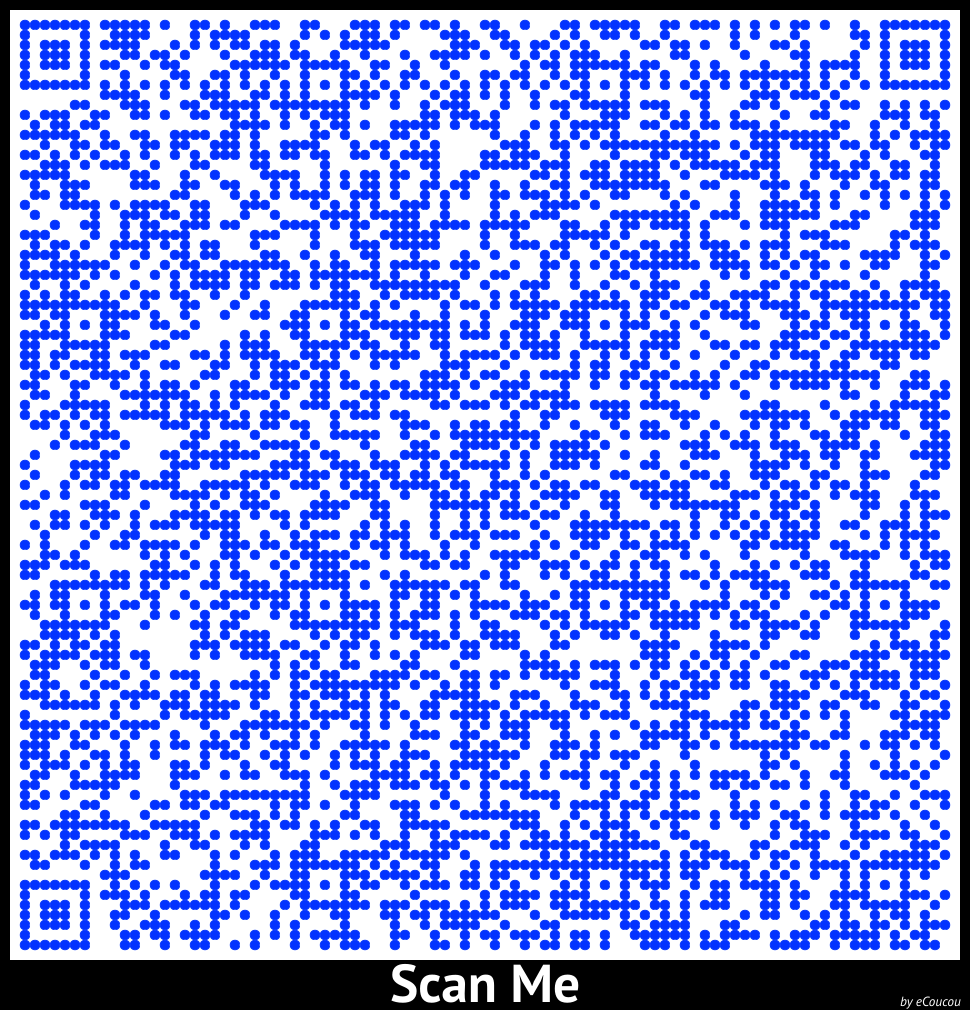
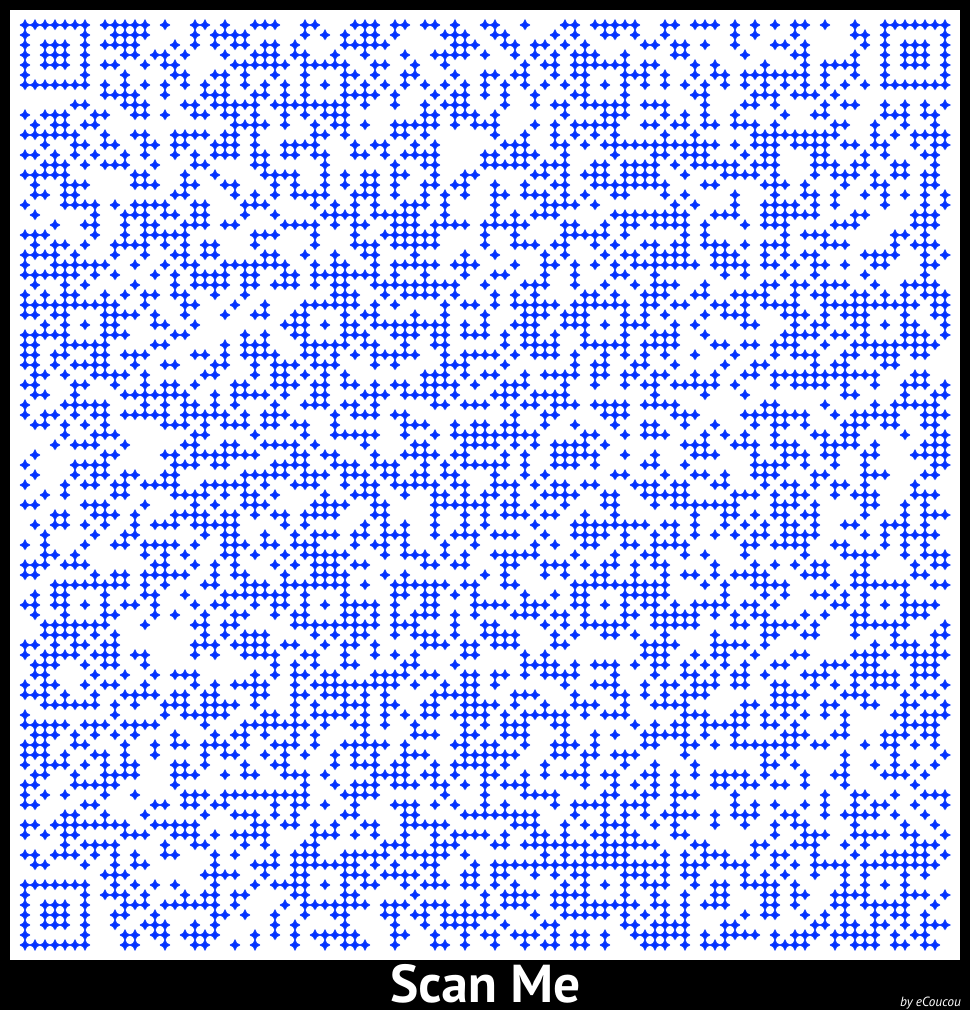
updat

Changed region(s): [[0.0, 0.0, 0.9897, 0.9515]]

diff --git a/public/vcard.html b/public/vcard.html
@@ -248,7 +248,12 @@
         });
         generateUrl();
     }
-
+    function copyToClipboard() {
+      const input = document.getElementById("qrcodeText");
+      input.select();
+      input.setSelectionRange(0, 99999); // pour mobile
+      document.execCommand("copy");
+    }
     async function getVersion() {
         const res = await fetch('/api/qrcode/version');
         const vData = await res.json();
@@ -277,15 +282,15 @@
         <div class="grid grid-cols-12 gap-4 mb-4">
           <div class="col-span-12 md:col-span-2">
             <label class="block">Genre</label>
-            <input type="text" id="genre" placeholder="M., Mme, Dr" onchange="generateUrl()" class="w-full px-4 py-2 rounded bg-backgroundLight dark:bg-primaryDark" />
+            <input type="text" id="genre" placeholder="M., Mme, Dr" onchange="generateUrl()" class="w-full px-4 py-2 rounded bg-primary dark:bg-primaryDark" />
           </div>
           <div class="col-span-12 md:col-span-5">
             <label class="block">Nom</label>
-            <input type="text" id="nom" placeholder="DOE" onchange="generateUrl()" class="w-full px-4 py-2 rounded  bg-backgroundLight dark:bg-primaryDark" />
+            <input type="text" id="nom" placeholder="DOE" onchange="generateUrl()" class="w-full px-4 py-2 rounded  bg-primary dark:bg-primaryDark" />
           </div>
           <div class="col-span-12 md:col-span-5">
             <label class="block">Prénom</label>
-            <input type="text" id="prenom" placeholder="John" onchange="generateUrl()" class="w-full px-4 py-2 rounded  bg-backgroundLight dark:bg-primaryDark" />
+            <input type="text" id="prenom" placeholder="John" onchange="generateUrl()" class="w-full px-4 py-2 rounded  bg-primary dark:bg-primaryDark" />
           </div>
         </div>
 
@@ -293,40 +298,40 @@
           <label class="block">Entreprise</label>
             <div class="grid grid-cols-12 gap-4 mb-4">
               <div class="col-span-12 md:col-span-3">
-                <input type="Organisation" id="organisation" placeholder="Entreprise" onchange="generateUrl()" class="w-full px-4 py-2 rounded bg-backgroundLight dark:bg-primaryDark" />
+                <input type="Organisation" id="organisation" placeholder="Entreprise" onchange="generateUrl()" class="w-full px-4 py-2 rounded bg-primary dark:bg-primaryDark" />
               </div>
               <div class="col-span-12 md:col-span-9">
-                <input type="Fonction" id="fonction" placeholder="Fonction" onchange="generateUrl()" class="w-full px-4 py-2 rounded bg-backgroundLight dark:bg-primaryDark" />
+                <input type="Fonction" id="fonction" placeholder="Fonction" onchange="generateUrl()" class="w-full px-4 py-2 rounded bg-primary dark:bg-primaryDark" />
               </div>
             </div>
           <label class="block">Média Info</label>
             <div class="grid grid-cols-12 gap-4 mb-4">
               <div class="col-span-12 md:col-span-3">
-                <input type="mobile" id="mobile" placeholder="+33612345678" onchange="generateUrl()" class="w-full px-4 py-2 rounded bg-backgroundLight dark:bg-primaryDark" />
+                <input type="mobile" id="mobile" placeholder="+33612345678" onchange="generateUrl()" class="w-full px-4 py-2 rounded bg-primary dark:bg-primaryDark" />
               </div>
               <div class="col-span-12 md:col-span-4">
-                <input type="email" id="email" placeholder="john.doe@my.com" onchange="generateUrl()" class="w-full px-4 py-2 rounded bg-backgroundLight dark:bg-primaryDark" />
+                <input type="email" id="email" placeholder="john.doe@my.com" onchange="generateUrl()" class="w-full px-4 py-2 rounded bg-primary dark:bg-primaryDark" />
               </div>
               <div class="col-span-12 md:col-span-5">
-                <input type="www" id="www" placeholder="https:/my.com" onchange="generateUrl()" class="w-full px-4 py-2 rounded bg-backgroundLight dark:bg-primaryDark" />
+                <input type="www" id="www" placeholder="https:/my.com" onchange="generateUrl()" class="w-full px-4 py-2 rounded bg-primary dark:bg-primaryDark" />
               </div>
             </div>
           <label class="block">Adresse</label>
             <div class="grid grid-cols-12 gap-4 mb-4">
               <div class="col-span-12 md:col-span-2">
-                <input type="site" id="site" placeholder="Site" onchange="generateUrl()" class="w-full px-4 py-2 rounded bg-backgroundLight dark:bg-primaryDark" />
+                <input type="site" id="site" placeholder="Site" onchange="generateUrl()" class="w-full px-4 py-2 rounded bg-primary dark:bg-primaryDark" />
               </div>
               <div class="col-span-12 md:col-span-3">
-                <input type="rue" id="rue" placeholder="Rue" onchange="generateUrl()" class="w-full px-4 py-2 rounded bg-backgroundLight dark:bg-primaryDark" />
+                <input type="rue" id="rue" placeholder="Rue" onchange="generateUrl()" class="w-full px-4 py-2 rounded bg-primary dark:bg-primaryDark" />
               </div>
               <div class="col-span-12 md:col-span-2">
-                <input type="code" id="code" placeholder="Code Postal" onchange="generateUrl()" class="w-full px-4 py-2 rounded bg-backgroundLight dark:bg-primaryDark" />
+                <input type="code" id="code" placeholder="Code Postal" onchange="generateUrl()" class="w-full px-4 py-2 rounded bg-primary dark:bg-primaryDark" />
               </div>
               <div class="col-span-12 md:col-span-3">
-                <input type="Ville" id="ville" placeholder="Ville" onchange="generateUrl()" class="w-full px-4 py-2 rounded bg-backgroundLight dark:bg-primaryDark" />
+                <input type="Ville" id="ville" placeholder="Ville" onchange="generateUrl()" class="w-full px-4 py-2 rounded bg-primary dark:bg-primaryDark" />
               </div>
               <div class="col-span-12 md:col-span-2">
-                <input type="pays" id="pays" placeholder="Pays" onchange="generateUrl()" class="w-full px-4 py-2 rounded bg-backgroundLight dark:bg-primaryDark" />
+                <input type="pays" id="pays" placeholder="Pays" onchange="generateUrl()" class="w-full px-4 py-2 rounded bg-primary dark:bg-primaryDark" />
               </div>
             </div>
             <div id="mapContainer" class="mt-4 hidden">
@@ -345,7 +350,7 @@
           <label class="block">Design et Paramètres du QR-Code (auto update)</label>
             <div class="grid grid-cols-12 gap-4 mb-4">
               <div class="col-span-12 md:col-span-2">
-                <select id="qual" onchange="redraw()" placeholder="Qualité" class="w-full px-4 py-2 rounded bg-backgroundLight dark:bg-primaryDark">
+                <select id="qual" onchange="redraw()" placeholder="Qualité" class="w-full px-4 py-2 rounded bg-primary dark:bg-primaryDark">
                   <option value="L">L  (7%)</option>
                   <option value="M">M (15%)</option>
                   <option value="Q">Q (25%)</option>
@@ -354,7 +359,7 @@
               </div>
           <!-- <label class="block">Niveau de correction (LEVEL)</label> -->
               <div class="col-span-12 md:col-span-2">
-                <select id="level" onchange="redraw()" class="w-full px-4 py-2 rounded bg-backgroundLight dark:bg-primaryDark">
+                <select id="level" onchange="redraw()" class="w-full px-4 py-2 rounded bg-primary dark:bg-primaryDark">
                     <option value="-1">-1</option>
                     <option value="0">0</option>
                     <option value="1">1</option>
@@ -386,7 +391,7 @@
               <input type="color" id="color" onchange="redraw()" class="w-full h-10" />
             </div>
             <div class="col-span-12 md:col-span-2">
-              <select id="forme" onchange="redraw()" class="w-full px-4 py-2 rounded bg-backgroundLight dark:bg-primaryDark">
+              <select id="forme" onchange="redraw()" class="w-full px-4 py-2 rounded bg-primary dark:bg-primaryDark">
                 <option value=0>Standard (Carré)</option>
                 <option value=1>Losange</option>
                 <option value=2>Rond</option>
@@ -401,7 +406,13 @@
         </div>
 
         <!-- </details> -->
-        <input id="qrcodeText" type="text" readonly class="mt-4 w-full px-4 py-2 rounded bg-backgroundLight dark:bg-primaryDark text-txtClair dark:text-txtDark" />
+        <div class="relative w-full">
+          <input id="qrcodeText" type="text" readonly class="mt-4 w-full px-4 py-2 rounded bg-primary dark:bg-primaryDark text-txtClair dark:text-txtDark" />
+          <button onclick="copyToClipboard()"
+            class="absolute top-1/2 right-2 transform -translate-y-1/2 bg-blue-500 text-white px-2 py-1 rounded">
+            Copier
+          </button>
+        </div>
         <div class="mt-6">
           <img id="fetchedImage" class="mx-auto hidden max-w-[80vw] max-h-[80vh]" alt="QR-Code" />
         </div>

diff --git a/routes/api/QR-code/qrcode.js b/routes/api/QR-code/qrcode.js
@@ -135,10 +135,10 @@ function optimise() {
     }
     return (sel);
 }
-function createPNG(base_color,contraste,standard, forme = 0 , cadre=0, logo=0) {
+function createPNG(base_color,contraste,standard, forme = 0 , cadre=0, logo=0, option=false) {
 
     let tScan=0, n=1;
-    console.log('cadre',cadre,contraste)
+    console.log('cadre',cadre,contraste,option)
     if (cadre==1) { tScan = 40; n=2}
     const width = (dim+n*2)*DIM;
     const height = (dim+n*2)*DIM + tScan;
@@ -267,7 +267,7 @@ function createPNG(base_color,contraste,standard, forme = 0 , cadre=0, logo=0) {
     }
     return Buffer.from(buffer,"base64");
 }
-function encodeQR(_texte, QUAL,PIXEL,LEVEL,CONTRASTE,STANDARD,COLOR,forme=0,option=true, cadre=0, logo=false) {
+function encodeQR(_texte, QUAL,PIXEL,LEVEL,CONTRASTE,STANDARD,COLOR,forme=0,OPTION=true, cadre=0, logo=false) {
     alphabet = JSON.parse(fs.readFileSync('./routes/api/QR-code/data/alpha.json', "utf8"));
     qr_json = JSON.parse(fs.readFileSync('./routes/api/QR-code/data/block.json', "utf8"));
     loc_json = JSON.parse(fs.readFileSync('./routes/api/QR-code/data/patterns.json', "utf8"));
@@ -296,7 +296,7 @@ function encodeQR(_texte, QUAL,PIXEL,LEVEL,CONTRASTE,STANDARD,COLOR,forme=0,opti
         level = optimise();
         createQR(level);
     }
-    const image = createPNG(base_color,CONTRASTE&1,STANDARD&1,forme,cadre,logo);
+    const image = createPNG(base_color,CONTRASTE&1,STANDARD&1,forme,cadre,logo,OPTION);
     return [image, base_color];
 }
 // async function logMetrics(source, type, level, qualite, version, option, _txt  ) {
@@ -329,7 +329,7 @@ router.get("/vcard", async (req,res) => {
     });
     const {nom, prenom, genre, email, adresse, mobile, site, titre, fonction, organisation, www, QUAL, COLOR, WEB, PIXEL, LEVEL, CONTRASTE, STANDARD, FORME, CADRE} = req.query;
     let _texte = (`BEGIN:VCARD\nVERSION:4.0\nFN:${prenom}+${nom}\nN:${nom};${prenom};;${genre};\nORG:${organisation}\nEMAIL;TYPE=INTERNET:${email}\nTEL;TYPE=cell:${mobile}\nitem1.ADR:;${adresse}\nitem1.X-ABLabel:${site}\nitem2.URL:${www}\nitem2.X-ABLabel:WWW\nTITLE:${fonction}\nLANG:FR-fr\nROLE:${titre}\nEND:VCARD\n`);
-    const [image, base_color] = encodeQR(_texte, QUAL, PIXEL, LEVEL, CONTRASTE, STANDARD,COLOR, FORME, true,CADRE,false);
+    const [image, base_color] = encodeQR(_texte, QUAL, PIXEL, LEVEL, CONTRASTE, STANDARD,COLOR, FORME, false,CADRE,false);
     imageName = "image.png";
     if (WEB) {
         if (WEB==1) {
@@ -354,7 +354,7 @@ router.get("/wallet", async (req,res) => {
     const {nom, code, QUAL, COLOR, WEB, PIXEL, LEVEL, CONTRASTE, STANDARD} = req.query;
     let _texte = code;
 
-    const [image, base_color] = encodeQR(_texte, QUAL, PIXEL, LEVEL, CONTRASTE, STANDARD,COLOR, 0,false,0,false);
+    const [image, base_color] = encodeQR(_texte, QUAL, PIXEL, LEVEL, CONTRASTE, STANDARD,COLOR, '0',false,0,false);
     imageName = "image.png";
     if (WEB) {
         if (WEB==1) {
@@ -438,9 +438,9 @@ router.get("/metrics_data", async(req,res) => {
 router.post("/get_pkpass", async(req, res, next) => {
     const { vCard, nom, prenom, societe, www, mobile, fonction, couleur } = req.body;
     if (www===undefined || www===null || www==="") {
-        const [image, base_color] = encodeQR('https://draft.e-coucou.com', 'M', 8, -1, 1, 1,"#83C7D5",0,true,0,false);
+        const [image, base_color] = encodeQR('https://draft.e-coucou.com', 'M', 8, -1, '1', '1',"#83C7D5",'0',true,0,false);
     } else {
-        const [image, base_color] = encodeQR(www, 'M', 8, -1, 1, 0,couleur,0,true,0,false);
+        const [image, base_color] = encodeQR(www, 'M', 8, -1, '1', '0',couleur,'0',true,0,false);
     }
     try {
         const buffer = await getPassWallet(vCard, nom, societe, prenom, www, mobile, fonction, couleur);
@@ -459,7 +459,7 @@ router.post("/get_wallet", requireAuth, async(req, res, next) => {
     const { wallet, nom, couleur, type } = req.body;
     const option = (type==="QR") ? false : true;
     const mess_ = option ? wallet : 'https://draft.e-coucou.com';
-    const [image, base_color] = encodeQR(mess_, 'M', 8, -1, 1, 1,couleur,0,option,0,false);
+    const [image, base_color] = encodeQR(mess_, 'M', 8, -1, '1', '1',couleur,'0',option,0,false);
     try {
         const buffer = await getBarreCode(nom, wallet, couleur, type);
         if (option) {
@@ -481,7 +481,7 @@ router.get("/wallet_test", async (req, res) => {
     const code = '018137-440-01';
     const nom = "Mons";
     const couleur = "#458192"
-    const [image, base_color] = encodeQR(code, 'L', 8, -1, 1, 1,"#000000",0,false,0,false);
+    const [image, base_color] = encodeQR(code, 'L', 8, -1,'1', '1',"#000000",'0',false,0,false);
     try {
         const buffer = await getBarreCode(nom, code,couleur);
         res.setHeader('Content-Type', 'application/vnd.apple.pkpass');

diff --git a/public/css/styleTail.css b/public/css/styleTail.css
@@ -502,6 +502,12 @@ video {
 .top-1 {
   top: 0.25rem;
 }
+.right-2 {
+  right: 0.5rem;
+}
+.top-1\/2 {
+  top: 50%;
+}
 .z-10 {
   z-index: 10;
 }
@@ -619,6 +625,10 @@ video {
 }
 .-translate-x-1\/2 {
   --tw-translate-x: -50%;
+  transform: translate(var(--tw-translate-x), var(--tw-translate-y)) rotate(var(--tw-rotate)) skewX(var(--tw-skew-x)) skewY(var(--tw-skew-y)) scaleX(var(--tw-scale-x)) scaleY(var(--tw-scale-y));
+}
+.-translate-y-1\/2 {
+  --tw-translate-y: -50%;
   transform: translate(var(--tw-translate-x), var(--tw-translate-y)) rotate(var(--tw-rotate)) skewX(var(--tw-skew-x)) skewY(var(--tw-skew-y)) scaleX(var(--tw-scale-x)) scaleY(var(--tw-scale-y));
 }
 .transform {

diff --git a/routes/api/QR-code/js/info.js b/routes/api/QR-code/js/info.js
@@ -1,4 +1,4 @@
-const eC_ = {version: 2.41, release:0, date:'avril/25', owner: 'rky', code:'y2H', annee:'2025', maj:'mai/25'};
+const eC_ = {version: 2.42, release:0, date:'avril/25', owner: 'rky', code:'y2H', annee:'2025', maj:'mai/25'};
 
 function eC() {
     return eC_;
